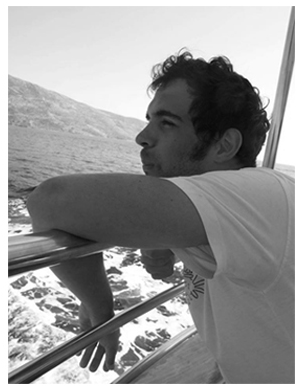
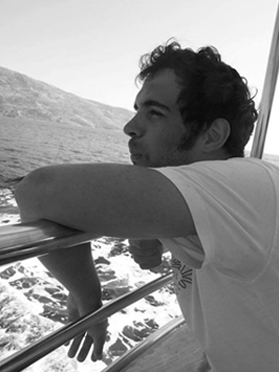
NEW BLUE STYLE

diff --git a/src/styles/index.scss b/src/styles/index.scss
@@ -1,3 +1,5 @@
+@import "colors";
+
 /*
   ----
   FONTS
@@ -9,27 +11,28 @@
   src: url("../fonts/OpenSans-Regular.ttf") /* TTF file for CSS3 browsers */
 }
 
-/*
-  ----
-  COLORS
-  ----
-*/
-
-$lightBlack: #282828;
-$green: #cacf1b;
-$white: white;
-$black: black;
-$hover: #888;
-$darkgrey: #333;
-$blue: #47c0b9;
-$grey: #717171;
-
 .blue {
   color: $blue;
 }
 
 .grey {
   color: $grey;
+}
+
+.white {
+  color: $white;
+}
+
+.contact-link {
+  color: $white;
+}
+
+.contact-link:hover {
+  color: $blue;
+}
+
+.preheader-logo {
+  display: none;
 }
 
 /*
@@ -60,7 +63,7 @@ nav.navbar {
 }
 
 nav.navbar .container {
-
+  
 }
 
 nav.navbar .navbar-nav > li {
@@ -93,6 +96,14 @@ nav.navbar .navbar-nav > li.selected {
 
 nav.navbar .navbar-nav > li.selected > a:hover {
   color: $white;
+}
+
+.preheader {
+  margin-top: 5px;
+  margin-bottom: 3px;
+  font-family: OpenSansReg;
+  letter-spacing: 3px;
+  padding-left: 50px;
 }
 
 /*
@@ -133,6 +144,13 @@ nav.navbar .navbar-nav > li.selected > a:hover {
   ----
 */
 
+.about-page__info-title {
+  font-size: 16px;
+  font-weight: bold;
+  letter-spacing: 2px;
+  margin-top: 0px;
+}
+
 .about-page__skill-list {
   list-style: none;
   padding-left: 0px;
@@ -153,15 +171,16 @@ nav.navbar .navbar-nav > li.selected > a:hover {
 }
 
 a.about-page__cv__button, button.about-page__cv-button {
-  margin-top: 40px;
-  margin-bottom: 40px;
   border-radius: 0px;
   background-color: $black;
   border-color: $black;
-  width: 150px;
+  width: 230px;
   height: 30px;
-  font-size: 14px;
-  line-height: 7px;
+  font-size: 17px;
+  line-height: 24px;
+  font-family: OpenSansReg;
+  letter-spacing: 4px;
+  padding: 0px;
 }
 
 a.about-page__cv__button:hover, button.about-page__cv-button:hover, button.about-page__cv-button:active, a.about-page__cv-button:visited {
@@ -173,13 +192,13 @@ a.about-page__cv__button:hover, button.about-page__cv-button:hover, button.about
   padding-bottom: 40px;
 }
 
-.about-page__info-row img, .about-page__info-row--padded img {
-  height: 70px;
-  margin-top: 4px;
-}
-
 .about-page__pic {
   text-align: center;
+}
+
+.about-page__pic img {
+  padding: 0px;
+  border: 1px solid $borderGrey;
 }
 
 /*
@@ -231,15 +250,4 @@ button.contact-page__message-button:hover {
   width: 70px;
   margin: 10px;
   cursor: pointer;
-}
-
-/*
-  ----
-  FOOTER
-  ----
-*/
-
-footer {
-  height: 40px;
-  background-color: $black;
 }

diff --git a/src/js/components/AboutPage.jsx b/src/js/components/AboutPage.jsx
@@ -8,16 +8,22 @@ export default React.createClass({
   render() {
     return (
       <Row className="about-page">
-        <Col xs={8} xsOffset={2} mdOffset={0} md={3} className="about-page__pic padding-bottom-large">
+        <Col xs={8} xsOffset={2} mdOffset={0} md={4} className="about-page__pic padding-bottom-large">
           <img src="images/slika_no_border.png"/>
+
+          <div className="about-page__cv">
+            <Button href="files/david_sljukic_CV.pdf" download className="about-page__cv__button" bsStyle="primary" bsSize="large">curriculum vitae</Button>
+          </div>
         </Col>
 
-        <Col xs={12} md={9}>   
+        <Col xs={12} md={8}>   
 
+          <h2 className="about-page__info-title">ABOUT ME</h2>
           <p className="about-page__intro-text--padded">
             I am a software developer from Novi Sad, Serbia who loves to write software to build great products and help businesses succeed with their goals. I appreciate good design and I am seeing it's importance more than ever in todays apps, web sites and products.
           </p>
 
+          <h2 className="about-page__info-title">MY SKILLS</h2>
           <ul className="about-page__skill-list--padded">
             <li>
               <span className="bold">Web development: </span>Ruby, Javascript, various frameworks of said languages
@@ -27,13 +33,10 @@ export default React.createClass({
             </li>
           </ul>
 
+          <h2 className="about-page__info-title">MY STYLE</h2>
           <p className="about-page__intro-text">
             I worked with varous companies lorem ipsum lorem ipsum lorem ipsum lorem ipsum lorem ipsum lorem ipsum lorem ipsum lorem ipsum lorem ipsum lorem ipsum lorem ipsum lorem ipsum lorem ipsum
           </p>
-
-          <div className="about-page__cv">
-            <Button href="files/david_sljukic_CV.pdf" download className="about-page__cv__button" bsStyle="primary" bsSize="large">Curriculum Vitae</Button>
-          </div>
 
         </Col>
       </Row>

diff --git a/src/js/components/ContactPage.jsx b/src/js/components/ContactPage.jsx
@@ -10,7 +10,7 @@ export default React.createClass({
 
   render() {
 
-    var gtooltip = <Tooltip>somemail@gmail.com</Tooltip>;
+    var gtooltip = <Tooltip><a href="mailto:david.sljukic@gmail.com" className="contact-link">david.sljukic@gmail.com</a></Tooltip>;
     var stooltip = <Tooltip><b>Skype ID: </b>david.sljukic</Tooltip>;
     var ftooltip = <Tooltip>facebook.com/sljukic</Tooltip>;
 
@@ -25,10 +25,6 @@ export default React.createClass({
           
           <OverlayTrigger placement="top" overlay={stooltip} trigger="click">
             <img src="images/skype_circle.png"/>
-          </OverlayTrigger>
-
-          <OverlayTrigger placement="top" overlay={ftooltip} trigger="click">
-            <img src="images/facebook_circle.png"/>
           </OverlayTrigger>
 
         </Col>

diff --git a/src/js/components/Navbar.jsx b/src/js/components/Navbar.jsx
@@ -12,10 +12,10 @@ export default React.createClass({
 
   render() {
 
-    var logo = <img src="images/logo.png"/>
+    var logo = <div className="preheader-logo"><span className="white small">DAVID SLJUKIC - </span><span className="blue small">PORTFOLIO</span></div>
 
     return (
-      <Navbar toggleNavKey={0}>
+      <Navbar brand={logo} toggleNavKey={0}>
         <Nav right eventKey={0} defaultNavExpended={false}>
           <NavItem eventKey={1} onClick={this.handleClick} className={this.props.activePage == "home" ? "selected" : ""} >HOME</NavItem>
           <NavItem eventKey={2} onClick={this.handleClick} className={this.props.activePage == "about" ? "selected" : ""} >ABOUT</NavItem>

diff --git a/src/styles/monitor.scss b/src/styles/monitor.scss
@@ -1,3 +1,5 @@
+@import "colors";
+
 .container {
   width: 992px;
 }
@@ -6,21 +8,13 @@ nav.navbar {
 
 }
 
-.preheader {
-  margin-top: 5px;
-  margin-bottom: 3px;
-  font-family: OpenSansReg;
-  letter-spacing: 3px;
-  padding-left: 50px;
-}
-
 nav.navbar .navbar-nav > li {
   width: 120px;
 }
 
 nav > .container {
   padding-top: 15px;
-  border: 1px solid #cacaca;
+  border: 1px solid $borderGrey;
   border-bottom: 0px;
 }
 
@@ -39,7 +33,7 @@ nav > .container {
 
 .about-page__pic img {
   margin-bottom: 20px;
-  width: 200px;
+  width: 230px;
 }
 
 button.contact-page__message-button {

diff --git a/src/styles/mobile.scss b/src/styles/mobile.scss
@@ -1,3 +1,5 @@
+@import "colors";
+
 // OVERRIDES
 
 nav.navbar .navbar-nav > li {
@@ -6,6 +8,20 @@ nav.navbar .navbar-nav > li {
 
 ul.navbar-nav {
   margin: 0 -15px;
+}
+
+nav.navbar {
+  background-color: $lightBlack;
+}
+
+.preheader {
+  display: none;
+}
+
+.preheader-logo {
+  display: block;
+  margin-top: 1px;
+  padding-left: 30px;
 }
 
 // HOME PAGE

diff --git a/src/styles/tablet.scss b/src/styles/tablet.scss
@@ -1,5 +1,5 @@
 nav.navbar .navbar-nav > li {
-  width: 100px;
+  width: 120px;
 }
 
 .page.container {
@@ -12,7 +12,7 @@ nav.navbar .navbar-nav > li {
 
 .about-page__pic img {
   margin-bottom: 20px;
-  width: 200px;
+  width: 230px;
   margin-top: 20px;
 }
 

diff --git a/src/styles/_colors.scss b/src/styles/_colors.scss
@@ -1,0 +1,15 @@
+/*
+  ----
+  COLORS
+  ----
+*/
+
+$lightBlack: #282828;
+$green: #cacf1b;
+$white: white;
+$black: black;
+$hover: #888;
+$darkgrey: #333;
+$blue: #47c0b9;
+$grey: #717171;
+$borderGrey: #cacaca;
